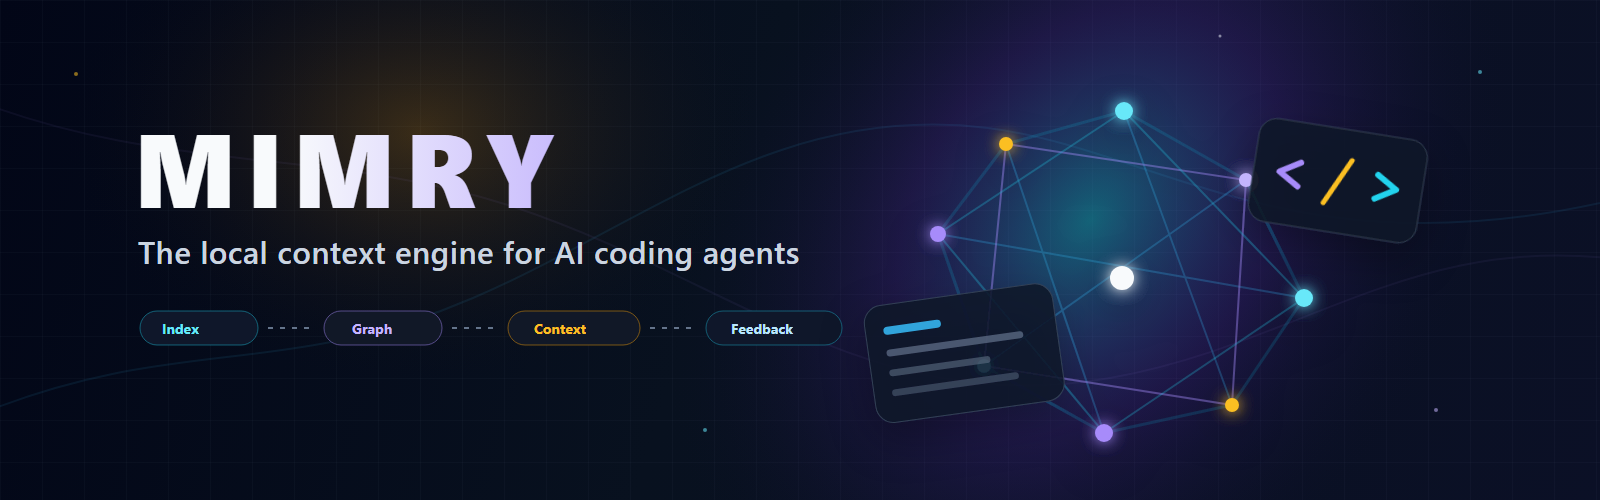
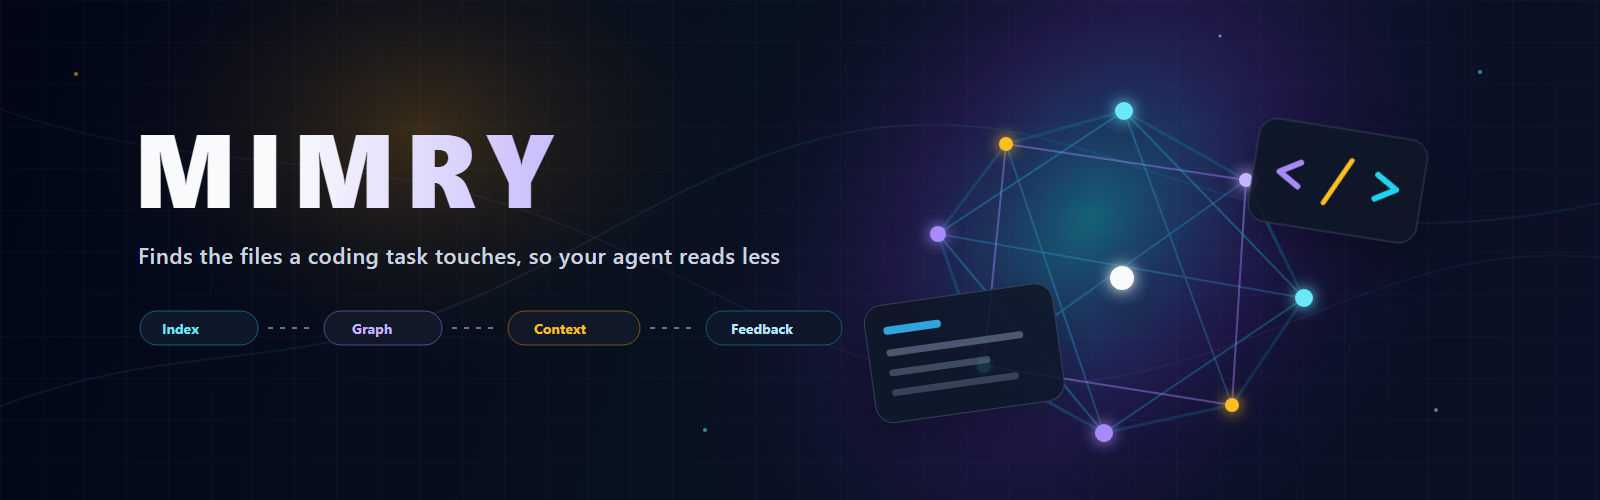
Lead with what MIMRY gets you (#63) (#368)

Changed region(s): [[0.0625, 0.48, 0.5, 0.54]]

diff --git a/site/index.html b/site/index.html
@@ -3,16 +3,16 @@
 <head>
 <meta charset="utf-8">
 <meta name="viewport" content="width=device-width, initial-scale=1">
-<title>MIMRY: the local context engine for AI coding agents</title>
-<meta name="description" content="MIMRY is a free, local CLI and MCP server that tells AI coding agents which files matter for a task. Ranked files, context packs and a code graph from your own repo. Install with uv tool install mimry.">
+<title>MIMRY: find the files a coding task touches, so your agent reads less</title>
+<meta name="description" content="Finds the files a coding task touches, so your agent reads less. A free, local CLI and MCP server for Claude Code and Codex. Install with uv tool install mimry.">
 <link rel="canonical" href="https://jbacalso24.github.io/mimry/">
 <meta name="google-site-verification" content="ZduZBC_Q0CTAzp5e7DwJC84TlEKnLSE44ITm3hVpD3A">
 <meta name="theme-color" content="#F5F7F6" media="(prefers-color-scheme: light)">
 <meta name="theme-color" content="#0E1828" media="(prefers-color-scheme: dark)">
 <meta property="og:type" content="website">
 <meta property="og:site_name" content="MIMRY">
-<meta property="og:title" content="MIMRY: the local context engine for AI coding agents">
-<meta property="og:description" content="Tell your coding agent which files matter. A local CLI and MCP server for Claude Code, Codex and other agents.">
+<meta property="og:title" content="MIMRY: find the files a coding task touches, so your agent reads less">
+<meta property="og:description" content="Finds the files a coding task touches, so your agent reads less. A local CLI and MCP server for Claude Code, Codex and other agents.">
 <meta property="og:url" content="https://jbacalso24.github.io/mimry/">
 <meta property="og:image" content="https://raw.githubusercontent.com/jbacalso24/mimry/main/assets/social-preview.png">
 <meta property="og:image:width" content="1280">
@@ -32,7 +32,7 @@ try { var t = localStorage.getItem("theme"); if (t === "light" || t === "dark") 
   "@type": "SoftwareApplication",
   "name": "MIMRY",
   "alternateName": "mimry",
-  "description": "The local context engine for AI coding agents: a CLI and MCP server that ranks the files that matter for a task and writes context packs from your own codebase.",
+  "description": "Finds the files a coding task touches, so your agent reads less. A local CLI and MCP server that ranks the files that matter for a task and writes context packs from your own codebase.",
   "applicationCategory": "DeveloperApplication",
   "operatingSystem": "Windows, macOS, Linux",
   "url": "https://jbacalso24.github.io/mimry/",
@@ -346,7 +346,7 @@ footer nav { display: flex; flex-wrap: wrap; gap: 24px; }
     <h1>MIMRY tells your coding agent which files matter.</h1>
     <div class="hero-grid">
       <div>
-        <p class="lede">The local context engine for Claude Code, Codex and other AI agents. Describe a task, get the files to read first.</p>
+        <p class="lede"><a href="https://github.com/jbacalso24/mimry/tree/main/benchmarks/tokens">On 92 real pull requests, agents read 50% fewer tokens with MIMRY.</a> Describe a task and get the files and lines to read first.</p>
         <div class="install">
           <code id="install-cmd">uv tool install mimry</code>
           <button class="btn" type="button" data-copy="install-cmd">Copy</button>

diff --git a/src/mimry/plugin.py b/src/mimry/plugin.py
@@ -13,7 +13,9 @@ from . import __version__
 from .installer import _REFERENCES, hook_table, skill_body
 
 NAME = "mimry"
-DESCRIPTION = "The local context engine for AI coding agents"
+DESCRIPTION = (
+    "Finds the files a coding task touches, so your AI agent reads less. Local CLI and MCP server."
+)
 HOMEPAGE = "https://github.com/jbacalso24/mimry"
 PLUGIN_DIR = "plugins/mimry"
 
@@ -47,7 +49,9 @@ def plugin_files() -> dict[str, str]:
         ".claude-plugin/marketplace.json": _json(
             {
                 "name": NAME,
-                "description": "MIMRY: the local context engine for coding agents.",
+                "description": (
+                    "MIMRY: finds the files a coding task touches, so your agent reads less."
+                ),
                 "owner": {"name": "Judison Bacalso"},
                 "plugins": [
                     {"name": NAME, "source": f"./{PLUGIN_DIR}", "description": DESCRIPTION}

diff --git a/README.md b/README.md
@@ -8,7 +8,11 @@
 <!-- mcp-name: io.github.jbacalso24/mimry -->
 
 <p align="center">
-  The local context engine for AI coding agents.
+  Finds the files a coding task touches, so your agent reads less.
+</p>
+
+<p align="center">
+  <a href="#benchmarks">On 92 real pull requests, agents read 50% fewer tokens with MIMRY.</a>
 </p>
 
 <p align="center">
